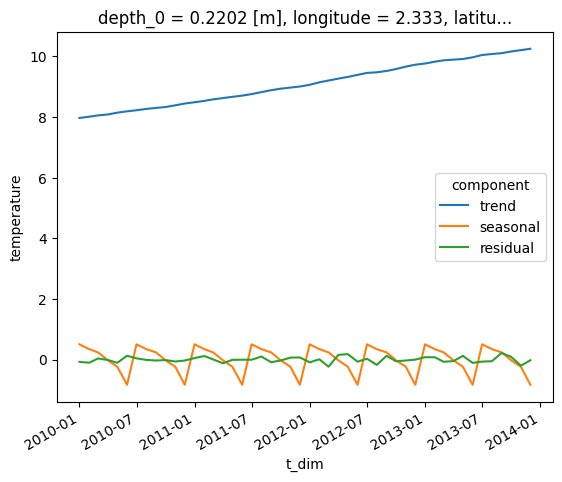
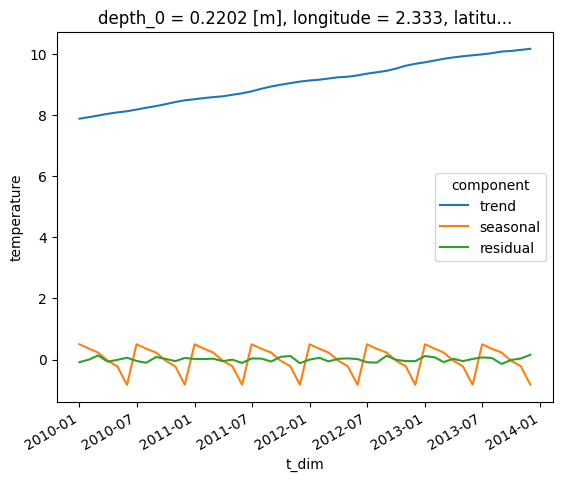
Updated General notebook pages from coast repo.

diff --git a/content/en/docs/Examples/Notebooks/General/seasonal_decomp_example.md b/content/en/docs/Examples/Notebooks/General/seasonal_decomp_example.md
@@ -88,7 +88,7 @@ temperature[0,0,:,:].plot()
 
 
 
-    <matplotlib.collections.QuadMesh at 0x7f8ab416c880>
+    <matplotlib.collections.QuadMesh at 0x7f7330d56ca0>
 
 
 
@@ -109,7 +109,7 @@ temperature[:,0,200,200].plot()
 
 
 
-    [<matplotlib.lines.Line2D at 0x7f8aacd43f10>]
+    [<matplotlib.lines.Line2D at 0x7f7330ba0880>]
 
 
 
@@ -516,7 +516,7 @@ Dimensions without coordinates: z_dim, y_dim, x_dim
 Data variables:
     trend      (t_dim, z_dim, y_dim, x_dim) float64 nan nan nan ... nan nan nan
     seasonal   (t_dim, z_dim, y_dim, x_dim) float64 nan nan nan ... nan nan nan
-    residual   (t_dim, z_dim, y_dim, x_dim) float64 nan nan nan ... nan nan nan</pre><div class='xr-wrap' style='display:none'><div class='xr-header'><div class='xr-obj-type'>xarray.Dataset</div></div><ul class='xr-sections'><li class='xr-section-item'><input id='section-49f727f7-de4d-4a29-8995-6171a5869e23' class='xr-section-summary-in' type='checkbox' disabled ><label for='section-49f727f7-de4d-4a29-8995-6171a5869e23' class='xr-section-summary'  title='Expand/collapse section'>Dimensions:</label><div class='xr-section-inline-details'><ul class='xr-dim-list'><li><span class='xr-has-index'>t_dim</span>: 48</li><li><span>z_dim</span>: 2</li><li><span>y_dim</span>: 375</li><li><span>x_dim</span>: 297</li></ul></div><div class='xr-section-details'></div></li><li class='xr-section-item'><input id='section-88b70971-9eef-43ac-8a8b-b825bdf7a053' class='xr-section-summary-in' type='checkbox'  checked><label for='section-88b70971-9eef-43ac-8a8b-b825bdf7a053' class='xr-section-summary' >Coordinates: <span>(4)</span></label><div class='xr-section-inline-details'></div><div class='xr-section-details'><ul class='xr-var-list'><li class='xr-var-item'><div class='xr-var-name'><span class='xr-has-index'>t_dim</span></div><div class='xr-var-dims'>(t_dim)</div><div class='xr-var-dtype'>datetime64[ns]</div><div class='xr-var-preview xr-preview'>2010-01-01 ... 2013-12-01</div><input id='attrs-be76373a-f8f7-4e1b-b282-20e3d189424e' class='xr-var-attrs-in' type='checkbox' disabled><label for='attrs-be76373a-f8f7-4e1b-b282-20e3d189424e' title='Show/Hide attributes'><svg class='icon xr-icon-file-text2'><use xlink:href='#icon-file-text2'></use></svg></label><input id='data-b5b90058-7052-49c9-9f22-bd8aeceeed26' class='xr-var-data-in' type='checkbox'><label for='data-b5b90058-7052-49c9-9f22-bd8aeceeed26' title='Show/Hide data repr'><svg class='icon xr-icon-database'><use xlink:href='#icon-database'></use></svg></label><div class='xr-var-attrs'><dl class='xr-attrs'></dl></div><div class='xr-var-data'><pre>array([&#x27;2010-01-01T00:00:00.000000000&#x27;, &#x27;2010-02-01T00:00:00.000000000&#x27;,
+    residual   (t_dim, z_dim, y_dim, x_dim) float64 nan nan nan ... nan nan nan</pre><div class='xr-wrap' style='display:none'><div class='xr-header'><div class='xr-obj-type'>xarray.Dataset</div></div><ul class='xr-sections'><li class='xr-section-item'><input id='section-7402cc89-c9c5-4740-b1f2-4071d1939f47' class='xr-section-summary-in' type='checkbox' disabled ><label for='section-7402cc89-c9c5-4740-b1f2-4071d1939f47' class='xr-section-summary'  title='Expand/collapse section'>Dimensions:</label><div class='xr-section-inline-details'><ul class='xr-dim-list'><li><span class='xr-has-index'>t_dim</span>: 48</li><li><span>z_dim</span>: 2</li><li><span>y_dim</span>: 375</li><li><span>x_dim</span>: 297</li></ul></div><div class='xr-section-details'></div></li><li class='xr-section-item'><input id='section-402c51dc-d77f-402c-bd39-1d86f019d91f' class='xr-section-summary-in' type='checkbox'  checked><label for='section-402c51dc-d77f-402c-bd39-1d86f019d91f' class='xr-section-summary' >Coordinates: <span>(4)</span></label><div class='xr-section-inline-details'></div><div class='xr-section-details'><ul class='xr-var-list'><li class='xr-var-item'><div class='xr-var-name'><span class='xr-has-index'>t_dim</span></div><div class='xr-var-dims'>(t_dim)</div><div class='xr-var-dtype'>datetime64[ns]</div><div class='xr-var-preview xr-preview'>2010-01-01 ... 2013-12-01</div><input id='attrs-af7ecad8-b960-47bc-a39c-0f0f58d705d4' class='xr-var-attrs-in' type='checkbox' disabled><label for='attrs-af7ecad8-b960-47bc-a39c-0f0f58d705d4' title='Show/Hide attributes'><svg class='icon xr-icon-file-text2'><use xlink:href='#icon-file-text2'></use></svg></label><input id='data-b6f77078-6aa0-4161-902c-c9aabb17c2e1' class='xr-var-data-in' type='checkbox'><label for='data-b6f77078-6aa0-4161-902c-c9aabb17c2e1' title='Show/Hide data repr'><svg class='icon xr-icon-database'><use xlink:href='#icon-database'></use></svg></label><div class='xr-var-attrs'><dl class='xr-attrs'></dl></div><div class='xr-var-data'><pre>array([&#x27;2010-01-01T00:00:00.000000000&#x27;, &#x27;2010-02-01T00:00:00.000000000&#x27;,
        &#x27;2010-03-01T00:00:00.000000000&#x27;, &#x27;2010-04-01T00:00:00.000000000&#x27;,
        &#x27;2010-05-01T00:00:00.000000000&#x27;, &#x27;2010-06-01T00:00:00.000000000&#x27;,
        &#x27;2010-07-01T00:00:00.000000000&#x27;, &#x27;2010-08-01T00:00:00.000000000&#x27;,
@@ -540,7 +540,7 @@ Data variables:
        &#x27;2013-07-01T00:00:00.000000000&#x27;, &#x27;2013-08-01T00:00:00.000000000&#x27;,
        &#x27;2013-09-01T00:00:00.000000000&#x27;, &#x27;2013-10-01T00:00:00.000000000&#x27;,
        &#x27;2013-11-01T00:00:00.000000000&#x27;, &#x27;2013-12-01T00:00:00.000000000&#x27;],
-      dtype=&#x27;datetime64[ns]&#x27;)</pre></div></li><li class='xr-var-item'><div class='xr-var-name'><span>depth_0</span></div><div class='xr-var-dims'>(z_dim, y_dim, x_dim)</div><div class='xr-var-dtype'>float32</div><div class='xr-var-preview xr-preview'>0.5 0.5 0.5 0.5 ... 1.5 1.5 1.5 1.5</div><input id='attrs-b00f94b5-bb69-4d88-8ee8-bb1dcf75013a' class='xr-var-attrs-in' type='checkbox' ><label for='attrs-b00f94b5-bb69-4d88-8ee8-bb1dcf75013a' title='Show/Hide attributes'><svg class='icon xr-icon-file-text2'><use xlink:href='#icon-file-text2'></use></svg></label><input id='data-93028021-e94f-4fd3-9dd7-1f3468bf2d6f' class='xr-var-data-in' type='checkbox'><label for='data-93028021-e94f-4fd3-9dd7-1f3468bf2d6f' title='Show/Hide data repr'><svg class='icon xr-icon-database'><use xlink:href='#icon-database'></use></svg></label><div class='xr-var-attrs'><dl class='xr-attrs'><dt><span>units :</span></dt><dd>m</dd><dt><span>standard_name :</span></dt><dd>Depth at time zero on the t-grid</dd></dl></div><div class='xr-var-data'><pre>array([[[0.5       , 0.5       , 0.5       , ..., 0.5       ,
+      dtype=&#x27;datetime64[ns]&#x27;)</pre></div></li><li class='xr-var-item'><div class='xr-var-name'><span>depth_0</span></div><div class='xr-var-dims'>(z_dim, y_dim, x_dim)</div><div class='xr-var-dtype'>float32</div><div class='xr-var-preview xr-preview'>0.5 0.5 0.5 0.5 ... 1.5 1.5 1.5 1.5</div><input id='attrs-95eb81df-d6e0-4809-b3b9-5764c87e5570' class='xr-var-attrs-in' type='checkbox' ><label for='attrs-95eb81df-d6e0-4809-b3b9-5764c87e5570' title='Show/Hide attributes'><svg class='icon xr-icon-file-text2'><use xlink:href='#icon-file-text2'></use></svg></label><input id='data-78251968-0441-40ee-bbf8-70effe833b5a' class='xr-var-data-in' type='checkbox'><label for='data-78251968-0441-40ee-bbf8-70effe833b5a' title='Show/Hide data repr'><svg class='icon xr-icon-database'><use xlink:href='#icon-database'></use></svg></label><div class='xr-var-attrs'><dl class='xr-attrs'><dt><span>units :</span></dt><dd>m</dd><dt><span>standard_name :</span></dt><dd>Depth at time zero on the t-grid</dd></dl></div><div class='xr-var-data'><pre>array([[[0.5       , 0.5       , 0.5       , ..., 0.5       ,
          0.5       , 0.5       ],
         [0.5       , 0.4975586 , 0.4975586 , ..., 0.10009766,
          0.10009766, 0.5       ],
@@ -566,7 +566,7 @@ Data variables:
         [1.5       , 0.30029297, 0.30029297, ..., 0.30029297,
          0.30029297, 1.5       ],
         [1.5       , 1.5       , 1.5       , ..., 1.5       ,
-         1.5       , 1.5       ]]], dtype=float32)</pre></div></li><li class='xr-var-item'><div class='xr-var-name'><span>longitude</span></div><div class='xr-var-dims'>(y_dim, x_dim)</div><div class='xr-var-dtype'>float32</div><div class='xr-var-preview xr-preview'>-19.89 -19.78 -19.67 ... 12.89 13.0</div><input id='attrs-ca594837-4996-41aa-ae0e-879733b57cd1' class='xr-var-attrs-in' type='checkbox' disabled><label for='attrs-ca594837-4996-41aa-ae0e-879733b57cd1' title='Show/Hide attributes'><svg class='icon xr-icon-file-text2'><use xlink:href='#icon-file-text2'></use></svg></label><input id='data-f4cfe70b-4901-41bf-bd99-a8aa388d5a3a' class='xr-var-data-in' type='checkbox'><label for='data-f4cfe70b-4901-41bf-bd99-a8aa388d5a3a' title='Show/Hide data repr'><svg class='icon xr-icon-database'><use xlink:href='#icon-database'></use></svg></label><div class='xr-var-attrs'><dl class='xr-attrs'></dl></div><div class='xr-var-data'><pre>array([[-19.888672, -19.777344, -19.666992, ...,  12.777344,  12.888672,
+         1.5       , 1.5       ]]], dtype=float32)</pre></div></li><li class='xr-var-item'><div class='xr-var-name'><span>longitude</span></div><div class='xr-var-dims'>(y_dim, x_dim)</div><div class='xr-var-dtype'>float32</div><div class='xr-var-preview xr-preview'>-19.89 -19.78 -19.67 ... 12.89 13.0</div><input id='attrs-a3edcb10-8f3a-4e98-a20a-f1b2f321b27b' class='xr-var-attrs-in' type='checkbox' disabled><label for='attrs-a3edcb10-8f3a-4e98-a20a-f1b2f321b27b' title='Show/Hide attributes'><svg class='icon xr-icon-file-text2'><use xlink:href='#icon-file-text2'></use></svg></label><input id='data-8b228af2-ca18-4bca-a42e-0dc704039020' class='xr-var-data-in' type='checkbox'><label for='data-8b228af2-ca18-4bca-a42e-0dc704039020' title='Show/Hide data repr'><svg class='icon xr-icon-database'><use xlink:href='#icon-database'></use></svg></label><div class='xr-var-attrs'><dl class='xr-attrs'></dl></div><div class='xr-var-data'><pre>array([[-19.888672, -19.777344, -19.666992, ...,  12.777344,  12.888672,
          13.      ],
        [-19.888672, -19.777344, -19.666992, ...,  12.777344,  12.888672,
          13.      ],
@@ -578,7 +578,7 @@ Data variables:
        [-19.888672, -19.777344, -19.666992, ...,  12.777344,  12.888672,
          13.      ],
        [-19.888672, -19.777344, -19.666992, ...,  12.777344,  12.888672,
-         13.      ]], dtype=float32)</pre></div></li><li class='xr-var-item'><div class='xr-var-name'><span>latitude</span></div><div class='xr-var-dims'>(y_dim, x_dim)</div><div class='xr-var-dtype'>float32</div><div class='xr-var-preview xr-preview'>40.07 40.07 40.07 ... 65.0 65.0</div><input id='attrs-25082354-dcb3-4250-9517-17458dda790d' class='xr-var-attrs-in' type='checkbox' disabled><label for='attrs-25082354-dcb3-4250-9517-17458dda790d' title='Show/Hide attributes'><svg class='icon xr-icon-file-text2'><use xlink:href='#icon-file-text2'></use></svg></label><input id='data-a12e6371-16c7-459f-b4de-a5be915bd86d' class='xr-var-data-in' type='checkbox'><label for='data-a12e6371-16c7-459f-b4de-a5be915bd86d' title='Show/Hide data repr'><svg class='icon xr-icon-database'><use xlink:href='#icon-database'></use></svg></label><div class='xr-var-attrs'><dl class='xr-attrs'></dl></div><div class='xr-var-data'><pre>array([[40.066406, 40.066406, 40.066406, ..., 40.066406, 40.066406,
+         13.      ]], dtype=float32)</pre></div></li><li class='xr-var-item'><div class='xr-var-name'><span>latitude</span></div><div class='xr-var-dims'>(y_dim, x_dim)</div><div class='xr-var-dtype'>float32</div><div class='xr-var-preview xr-preview'>40.07 40.07 40.07 ... 65.0 65.0</div><input id='attrs-c4090b22-3be6-4e38-a6db-38ca26b78580' class='xr-var-attrs-in' type='checkbox' disabled><label for='attrs-c4090b22-3be6-4e38-a6db-38ca26b78580' title='Show/Hide attributes'><svg class='icon xr-icon-file-text2'><use xlink:href='#icon-file-text2'></use></svg></label><input id='data-5f0fbb91-94d5-44c9-ab33-9728e92207fe' class='xr-var-data-in' type='checkbox'><label for='data-5f0fbb91-94d5-44c9-ab33-9728e92207fe' title='Show/Hide data repr'><svg class='icon xr-icon-database'><use xlink:href='#icon-database'></use></svg></label><div class='xr-var-attrs'><dl class='xr-attrs'></dl></div><div class='xr-var-data'><pre>array([[40.066406, 40.066406, 40.066406, ..., 40.066406, 40.066406,
         40.066406],
        [40.13379 , 40.13379 , 40.13379 , ..., 40.13379 , 40.13379 ,
         40.13379 ],
@@ -590,11 +590,11 @@ Data variables:
        [64.93457 , 64.93457 , 64.93457 , ..., 64.93457 , 64.93457 ,
         64.93457 ],
        [65.00098 , 65.00098 , 65.00098 , ..., 65.00098 , 65.00098 ,
-        65.00098 ]], dtype=float32)</pre></div></li></ul></div></li><li class='xr-section-item'><input id='section-079ff73a-6b6d-4197-b6e3-edf25f209dc1' class='xr-section-summary-in' type='checkbox'  checked><label for='section-079ff73a-6b6d-4197-b6e3-edf25f209dc1' class='xr-section-summary' >Data variables: <span>(3)</span></label><div class='xr-section-inline-details'></div><div class='xr-section-details'><ul class='xr-var-list'><li class='xr-var-item'><div class='xr-var-name'><span>trend</span></div><div class='xr-var-dims'>(t_dim, z_dim, y_dim, x_dim)</div><div class='xr-var-dtype'>float64</div><div class='xr-var-preview xr-preview'>nan nan nan nan ... nan nan nan nan</div><input id='attrs-fae26374-2cf3-4ba1-a1df-a1be05ec9eff' class='xr-var-attrs-in' type='checkbox' disabled><label for='attrs-fae26374-2cf3-4ba1-a1df-a1be05ec9eff' title='Show/Hide attributes'><svg class='icon xr-icon-file-text2'><use xlink:href='#icon-file-text2'></use></svg></label><input id='data-81f29a42-6065-4d3a-8447-e4fb65566090' class='xr-var-data-in' type='checkbox'><label for='data-81f29a42-6065-4d3a-8447-e4fb65566090' title='Show/Hide data repr'><svg class='icon xr-icon-database'><use xlink:href='#icon-database'></use></svg></label><div class='xr-var-attrs'><dl class='xr-attrs'></dl></div><div class='xr-var-data'><pre>array([[[[        nan,         nan,         nan, ...,         nan,
+        65.00098 ]], dtype=float32)</pre></div></li></ul></div></li><li class='xr-section-item'><input id='section-32faf3e3-ec58-4bb3-b85b-f9697c36e6dd' class='xr-section-summary-in' type='checkbox'  checked><label for='section-32faf3e3-ec58-4bb3-b85b-f9697c36e6dd' class='xr-section-summary' >Data variables: <span>(3)</span></label><div class='xr-section-inline-details'></div><div class='xr-section-details'><ul class='xr-var-list'><li class='xr-var-item'><div class='xr-var-name'><span>trend</span></div><div class='xr-var-dims'>(t_dim, z_dim, y_dim, x_dim)</div><div class='xr-var-dtype'>float64</div><div class='xr-var-preview xr-preview'>nan nan nan nan ... nan nan nan nan</div><input id='attrs-c59de307-2aa3-4f3b-8373-9f2307d447b8' class='xr-var-attrs-in' type='checkbox' disabled><label for='attrs-c59de307-2aa3-4f3b-8373-9f2307d447b8' title='Show/Hide attributes'><svg class='icon xr-icon-file-text2'><use xlink:href='#icon-file-text2'></use></svg></label><input id='data-a0c56b35-82cf-4503-95d0-4cb188d5d55f' class='xr-var-data-in' type='checkbox'><label for='data-a0c56b35-82cf-4503-95d0-4cb188d5d55f' title='Show/Hide data repr'><svg class='icon xr-icon-database'><use xlink:href='#icon-database'></use></svg></label><div class='xr-var-attrs'><dl class='xr-attrs'></dl></div><div class='xr-var-data'><pre>array([[[[        nan,         nan,         nan, ...,         nan,
                   nan,         nan],
-         [        nan, 15.38227343, 15.37901823, ...,         nan,
+         [        nan, 15.29912668, 15.29587147, ...,         nan,
                   nan,         nan],
-         [        nan, 15.37120573, 15.53901172, ...,         nan,
+         [        nan, 15.28805897, 15.45586496, ...,         nan,
                   nan,         nan],
          ...,
          [        nan,         nan,         nan, ...,         nan,
@@ -606,9 +606,9 @@ Data variables:
 
         [[        nan,         nan,         nan, ...,         nan,
                   nan,         nan],
-         [        nan, 15.38129687, 15.37820442, ...,         nan,
+         [        nan, 15.29815012, 15.29505767, ...,         nan,
                   nan,         nan],
-         [        nan, 15.3700664 , 15.54291797, ...,         nan,
+         [        nan, 15.28691965, 15.45977121, ...,         nan,
                   nan,         nan],
 ...
          [        nan,         nan,         nan, ...,         nan,
@@ -620,9 +620,9 @@ Data variables:
 
         [[        nan,         nan,         nan, ...,         nan,
                   nan,         nan],
-         [        nan, 17.66350233, 17.66040988, ...,         nan,
+         [        nan, 17.58595319, 17.58286074, ...,         nan,
                   nan,         nan],
-         [        nan, 17.65227186, 17.82512342, ...,         nan,
+         [        nan, 17.57472272, 17.74757428, ...,         nan,
                   nan,         nan],
          ...,
          [        nan,         nan,         nan, ...,         nan,
@@ -630,11 +630,11 @@ Data variables:
          [        nan,         nan,         nan, ...,         nan,
                   nan,         nan],
          [        nan,         nan,         nan, ...,         nan,
-                  nan,         nan]]]])</pre></div></li><li class='xr-var-item'><div class='xr-var-name'><span>seasonal</span></div><div class='xr-var-dims'>(t_dim, z_dim, y_dim, x_dim)</div><div class='xr-var-dtype'>float64</div><div class='xr-var-preview xr-preview'>nan nan nan nan ... nan nan nan nan</div><input id='attrs-44a96d33-41a5-4d63-b74b-960d74d6305e' class='xr-var-attrs-in' type='checkbox' disabled><label for='attrs-44a96d33-41a5-4d63-b74b-960d74d6305e' title='Show/Hide attributes'><svg class='icon xr-icon-file-text2'><use xlink:href='#icon-file-text2'></use></svg></label><input id='data-b83d7469-977b-46b7-a815-df9f611fc81b' class='xr-var-data-in' type='checkbox'><label for='data-b83d7469-977b-46b7-a815-df9f611fc81b' title='Show/Hide data repr'><svg class='icon xr-icon-database'><use xlink:href='#icon-database'></use></svg></label><div class='xr-var-attrs'><dl class='xr-attrs'></dl></div><div class='xr-var-data'><pre>array([[[[        nan,         nan,         nan, ...,         nan,
+                  nan,         nan]]]])</pre></div></li><li class='xr-var-item'><div class='xr-var-name'><span>seasonal</span></div><div class='xr-var-dims'>(t_dim, z_dim, y_dim, x_dim)</div><div class='xr-var-dtype'>float64</div><div class='xr-var-preview xr-preview'>nan nan nan nan ... nan nan nan nan</div><input id='attrs-92cd5644-fc66-4466-bf1b-195817affb9a' class='xr-var-attrs-in' type='checkbox' disabled><label for='attrs-92cd5644-fc66-4466-bf1b-195817affb9a' title='Show/Hide attributes'><svg class='icon xr-icon-file-text2'><use xlink:href='#icon-file-text2'></use></svg></label><input id='data-d78fcd39-87f5-40cb-abe2-02681e687e30' class='xr-var-data-in' type='checkbox'><label for='data-d78fcd39-87f5-40cb-abe2-02681e687e30' title='Show/Hide data repr'><svg class='icon xr-icon-database'><use xlink:href='#icon-database'></use></svg></label><div class='xr-var-attrs'><dl class='xr-attrs'></dl></div><div class='xr-var-data'><pre>array([[[[        nan,         nan,         nan, ...,         nan,
                   nan,         nan],
-         [        nan,  0.0366625 , -0.04699636, ...,         nan,
+         [        nan,  0.03273833, -0.05092052, ...,         nan,
                   nan,         nan],
-         [        nan,  0.06237864,  0.29203359, ...,         nan,
+         [        nan,  0.05845448,  0.28810943, ...,         nan,
                   nan,         nan],
          ...,
          [        nan,         nan,         nan, ...,         nan,
@@ -646,9 +646,9 @@ Data variables:
 
         [[        nan,         nan,         nan, ...,         nan,
                   nan,         nan],
-         [        nan,  0.02592031, -0.0579013 , ...,         nan,
+         [        nan,  0.02199615, -0.06182547, ...,         nan,
                   nan,         nan],
-         [        nan,  0.05179922,  0.28812734, ...,         nan,
+         [        nan,  0.04787505,  0.28420318, ...,         nan,
                   nan,         nan],
 ...
          [        nan,         nan,         nan, ...,         nan,
@@ -660,9 +660,9 @@ Data variables:
 
         [[        nan,         nan,         nan, ...,         nan,
                   nan,         nan],
-         [        nan, -0.34022162, -0.32345729, ...,         nan,
+         [        nan, -0.33592819, -0.31916387, ...,         nan,
                   nan,         nan],
-         [        nan, -0.35047552, -0.69910834, ...,         nan,
+         [        nan, -0.3461821 , -0.69481491, ...,         nan,
                   nan,         nan],
          ...,
          [        nan,         nan,         nan, ...,         nan,
@@ -670,11 +670,11 @@ Data variables:
          [        nan,         nan,         nan, ...,         nan,
                   nan,         nan],
          [        nan,         nan,         nan, ...,         nan,
-                  nan,         nan]]]])</pre></div></li><li class='xr-var-item'><div class='xr-var-name'><span>residual</span></div><div class='xr-var-dims'>(t_dim, z_dim, y_dim, x_dim)</div><div class='xr-var-dtype'>float64</div><div class='xr-var-preview xr-preview'>nan nan nan nan ... nan nan nan nan</div><input id='attrs-7243cef5-50a3-4b4b-bcb2-82ddea96097e' class='xr-var-attrs-in' type='checkbox' disabled><label for='attrs-7243cef5-50a3-4b4b-bcb2-82ddea96097e' title='Show/Hide attributes'><svg class='icon xr-icon-file-text2'><use xlink:href='#icon-file-text2'></use></svg></label><input id='data-991792e6-3dac-4820-b5e6-be5f741b6f4a' class='xr-var-data-in' type='checkbox'><label for='data-991792e6-3dac-4820-b5e6-be5f741b6f4a' title='Show/Hide data repr'><svg class='icon xr-icon-database'><use xlink:href='#icon-database'></use></svg></label><div class='xr-var-attrs'><dl class='xr-attrs'></dl></div><div class='xr-var-data'><pre>array([[[[        nan,         nan,         nan, ...,         nan,
+                  nan,         nan]]]])</pre></div></li><li class='xr-var-item'><div class='xr-var-name'><span>residual</span></div><div class='xr-var-dims'>(t_dim, z_dim, y_dim, x_dim)</div><div class='xr-var-dtype'>float64</div><div class='xr-var-preview xr-preview'>nan nan nan nan ... nan nan nan nan</div><input id='attrs-5b3bf2e1-16f7-4c26-98aa-5862b17d3430' class='xr-var-attrs-in' type='checkbox' disabled><label for='attrs-5b3bf2e1-16f7-4c26-98aa-5862b17d3430' title='Show/Hide attributes'><svg class='icon xr-icon-file-text2'><use xlink:href='#icon-file-text2'></use></svg></label><input id='data-2550c31a-c98c-4085-99e4-bfb6c79c7ab7' class='xr-var-data-in' type='checkbox'><label for='data-2550c31a-c98c-4085-99e4-bfb6c79c7ab7' title='Show/Hide data repr'><svg class='icon xr-icon-database'><use xlink:href='#icon-database'></use></svg></label><div class='xr-var-attrs'><dl class='xr-attrs'></dl></div><div class='xr-var-data'><pre>array([[[[        nan,         nan,         nan, ...,         nan,
                   nan,         nan],
-         [        nan, -0.07423008, -0.07423008, ...,         nan,
+         [        nan, -0.0868845 , -0.0868845 , ...,         nan,
                   nan,         nan],
-         [        nan, -0.07423008, -0.07423008, ...,         nan,
+         [        nan, -0.0868845 , -0.0868845 , ...,         nan,
                   nan,         nan],
          ...,
          [        nan,         nan,         nan, ...,         nan,
@@ -686,9 +686,9 @@ Data variables:
 
         [[        nan,         nan,         nan, ...,         nan,
                   nan,         nan],
-         [        nan, -0.07423008, -0.07423008, ...,         nan,
+         [        nan, -0.0868845 , -0.0868845 , ...,         nan,
                   nan,         nan],
-         [        nan, -0.07423008, -0.07423008, ...,         nan,
+         [        nan, -0.0868845 , -0.0868845 , ...,         nan,
                   nan,         nan],
 ...
          [        nan,         nan,         nan, ...,         nan,
@@ -700,9 +700,9 @@ Data variables:
 
         [[        nan,         nan,         nan, ...,         nan,
                   nan,         nan],
-         [        nan, -0.02238199, -0.02238199, ...,         nan,
+         [        nan,  0.15587994,  0.15587994, ...,         nan,
                   nan,         nan],
-         [        nan, -0.02238199, -0.02238199, ...,         nan,
+         [        nan,  0.15587994,  0.15587994, ...,         nan,
                   nan,         nan],
          ...,
          [        nan,         nan,         nan, ...,         nan,
@@ -710,7 +710,7 @@ Data variables:
          [        nan,         nan,         nan, ...,         nan,
                   nan,         nan],
          [        nan,         nan,         nan, ...,         nan,
-                  nan,         nan]]]])</pre></div></li></ul></div></li><li class='xr-section-item'><input id='section-c002430a-3f16-48ce-a365-ad91ea7a59a8' class='xr-section-summary-in' type='checkbox' disabled ><label for='section-c002430a-3f16-48ce-a365-ad91ea7a59a8' class='xr-section-summary'  title='Expand/collapse section'>Attributes: <span>(0)</span></label><div class='xr-section-inline-details'></div><div class='xr-section-details'><dl class='xr-attrs'></dl></div></li></ul></div></div>
+                  nan,         nan]]]])</pre></div></li></ul></div></li><li class='xr-section-item'><input id='section-35e38aed-fdc8-458c-b248-537520bad2b4' class='xr-section-summary-in' type='checkbox' disabled ><label for='section-35e38aed-fdc8-458c-b248-537520bad2b4' class='xr-section-summary'  title='Expand/collapse section'>Attributes: <span>(0)</span></label><div class='xr-section-inline-details'></div><div class='xr-section-details'><dl class='xr-attrs'></dl></div></li></ul></div></div>
 
 
 
@@ -729,9 +729,9 @@ temp_decomp[:,:,0,200,200].plot(hue="component")
 
 
 
-    [<matplotlib.lines.Line2D at 0x7f8aacbf7f70>,
-     <matplotlib.lines.Line2D at 0x7f8aacbf7fd0>,
-     <matplotlib.lines.Line2D at 0x7f8aacbf79d0>]
+    [<matplotlib.lines.Line2D at 0x7f7330abbe80>,
+     <matplotlib.lines.Line2D at 0x7f7330abbd60>,
+     <matplotlib.lines.Line2D at 0x7f7330abbeb0>]
 
 
 

diff --git a/content/en/docs/Examples/Notebooks/General/eof_tutorial.md b/content/en/docs/Examples/Notebooks/General/eof_tutorial.md
@@ -70,7 +70,7 @@ eof_data.EOF.sel(mode=[1,2,3,4]).plot.pcolormesh(col='mode',col_wrap=2,x='longit
 
 
 
-    <xarray.plot.facetgrid.FacetGrid at 0x7fd3065c54c0>
+    <xarray.plot.facetgrid.FacetGrid at 0x7f1922967a60>
 
 
 
@@ -88,7 +88,7 @@ eof_data.temporal_proj.sel(mode=[1,2,3,4]).plot(col='mode',col_wrap=2,x='time')
 
 
 
-    <xarray.plot.facetgrid.FacetGrid at 0x7fd3060d2c40>
+    <xarray.plot.facetgrid.FacetGrid at 0x7f192246ab80>
 
 
 
